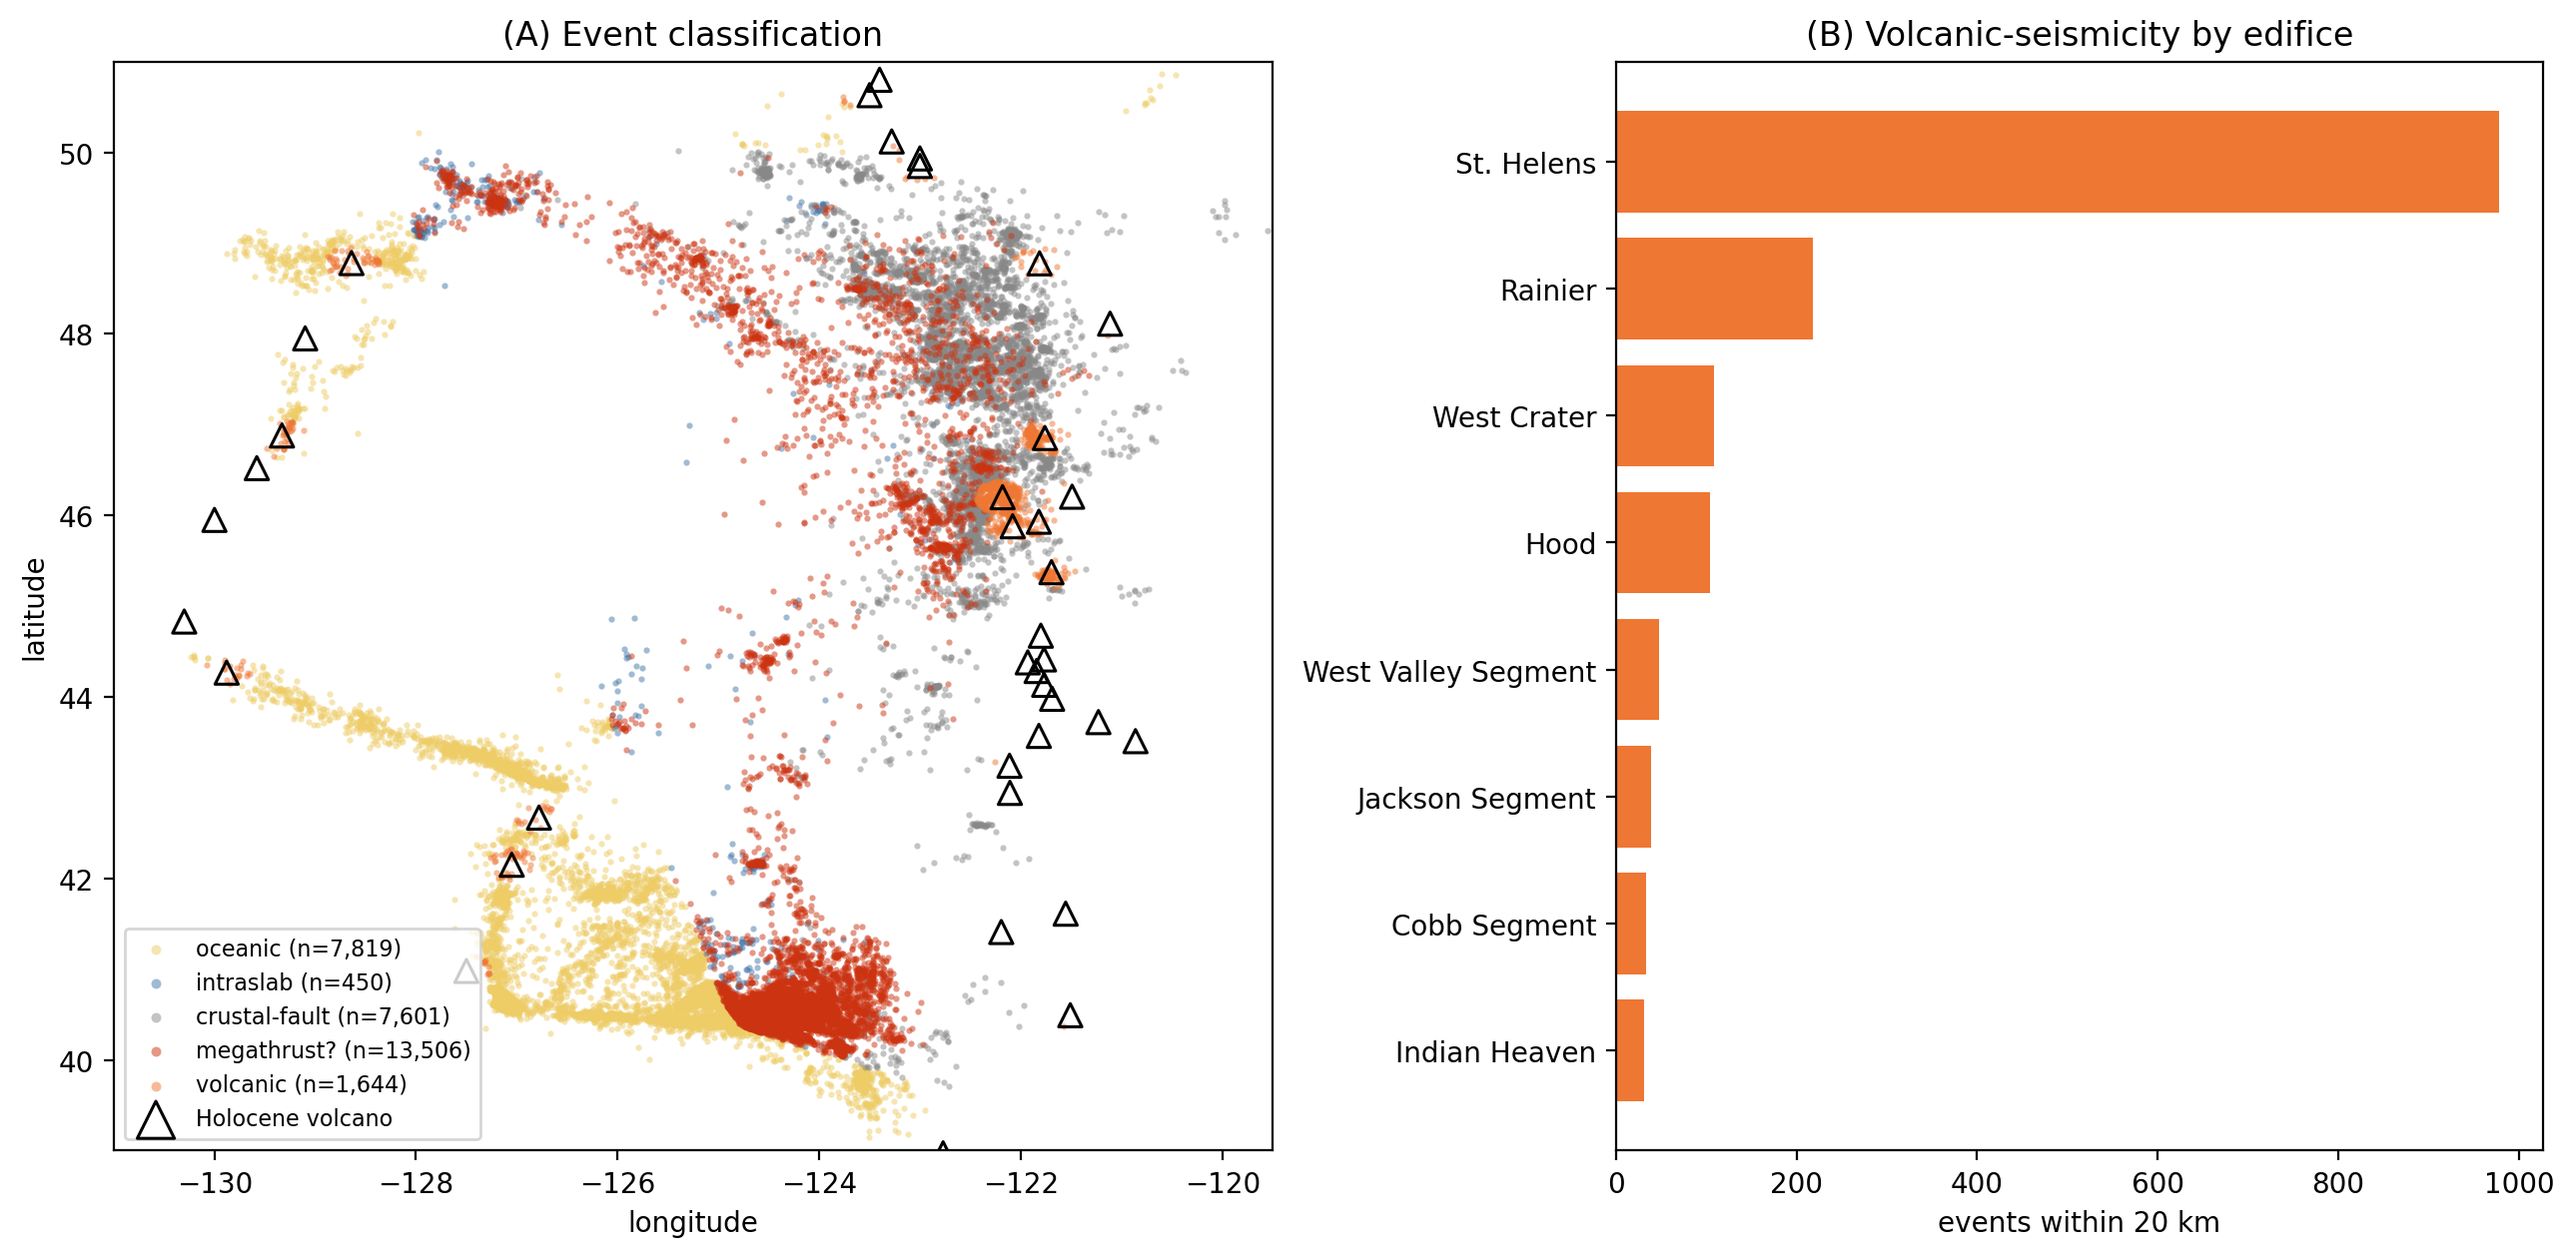
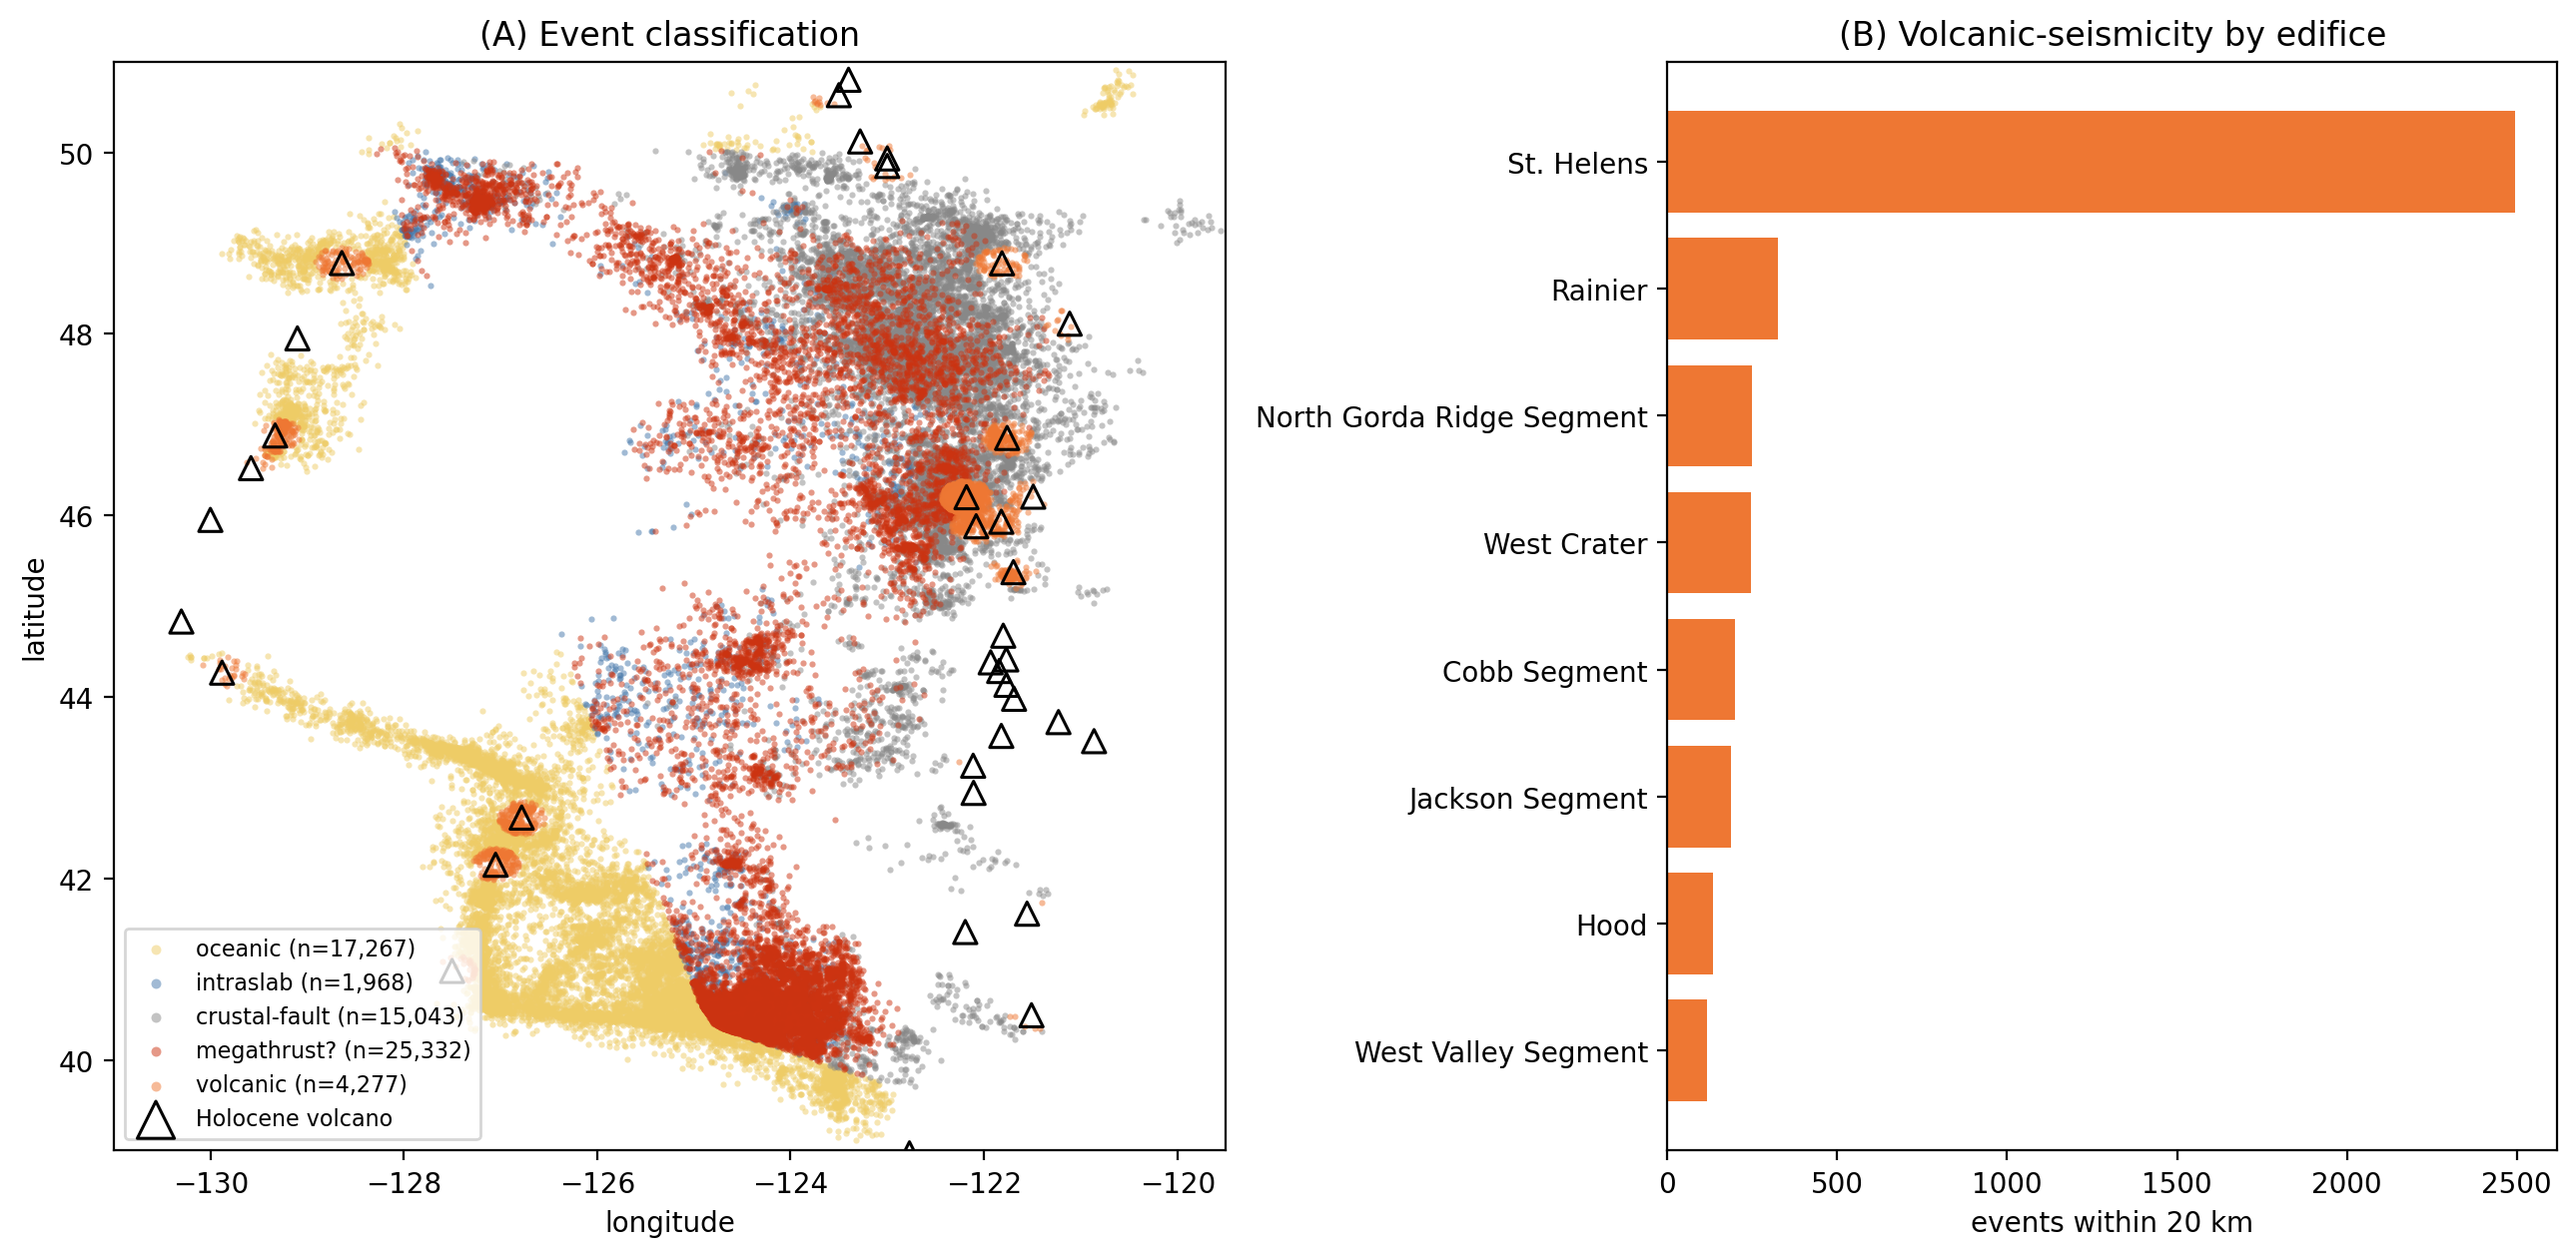
Plot all relocated events (+ qc_pass flag); Route A adds displacement amp for Mw
Data product: release ALL relocated events, not just the QC subset.
- phase10: classify the full relocated catalog (63,887) and add a qc_pass flag (=
  membership in the published QC catalog, 31,020) + carry ML_unc. cascadia_catalog_
  classified.csv now has every relocated event with a flag users can filter on.
- phase5: the catalog map + regional zooms now join the full relocated origin table
  (all 63,798 ML'd events) instead of the QC-only subset. fig4 + zooms regenerated.
- phase14 completeness now runs over all relocated events (offshore Mc drops further:
  Blanco 1.7, Endeavour 1.8 vs ANSS-ml ~3.2).
- Captions/text (fig4, completeness, supplement) updated to "all relocated + qc_pass".

Route A / Mw: route_a_wa_amplitudes.py now measures a second amplitude per pick,
disp_amp_um -- broadband displacement (response removed to DISP, low band --disp-lo/
--disp-hi, default 0.05-2 Hz). Wood-Anderson (wa_amp_mm) saturates for large events, so
this low-frequency displacement is the amplitude to calibrate toward Mw. RUNBOOK updated.

diff --git a/4_relocation/magnitude/route_a_wa_amplitudes.py b/4_relocation/magnitude/route_a_wa_amplitudes.py
@@ -3,9 +3,17 @@
 Route A, step 1: Wood-Anderson amplitudes for each P and S pick.
 
 For every pick this script fetches the waveform (NC/BK -> NCEDC via
-utils/data_client.py), removes the instrument response, simulates a Wood-Anderson
-seismograph, and measures the peak WA displacement in a *distance-scaled* window,
-taken as the maximum over all available components (vertical used as a fallback).
+utils/data_client.py), removes the instrument response, and measures TWO amplitudes
+per pick in a *distance-scaled* window, taken as the max over all components
+(vertical fallback):
+  - wa_amp_mm : peak Wood-Anderson displacement (near 1 Hz) -> local magnitude ML,
+    comparable to other ML catalogs.
+  - disp_amp_um : peak broadband displacement in a low band (--disp-lo/--disp-hi,
+    default 0.05-2 Hz) -> a moment-scale amplitude for Mw. Wood-Anderson deliberately
+    narrowbands and saturates for large events, so the low-frequency displacement is
+    the amplitude to calibrate toward Mw (up to the magnitude where the corner drops
+    below the usable OBS band). A proper Mw still needs a spectral Omega-0 fit; this
+    displacement amplitude is the first step and shares the same response removal.
 It also records a pre-signal signal-to-noise ratio and the response *epoch* the
 pick falls in (so redeployed OBS get an epoch-specific station term downstream).
 
@@ -51,8 +59,8 @@ PAZ_WA = {"poles": [-5.49779 - 5.60886j, -5.49779 + 5.60886j],
           "zeros": [0j], "gain": 1.0, "sensitivity": 2080.0}
 
 OUT_COLS = ["arid", "event_id", "network", "station", "phase", "evla", "evlo", "evdp",
-            "stla", "stlo", "stel_m", "dist_hypo_km", "wa_amp_mm", "snr", "n_comp",
-            "epoch", "reason"]
+            "stla", "stlo", "stel_m", "dist_hypo_km", "wa_amp_mm", "disp_amp_um",
+            "snr", "n_comp", "epoch", "reason"]
 
 
 def haversine_km(la1, lo1, la2, lo2):
@@ -97,6 +105,10 @@ def main(argv=None):
     ap.add_argument("--source", default="pnwstore")
     ap.add_argument("--sample-rate", type=int, default=100)
     ap.add_argument("--highpass", type=float, default=1.0, help="post-WA high-pass (Hz)")
+    ap.add_argument("--disp-lo", type=float, default=0.05,
+                    help="low corner (Hz) for the displacement (Mw) band")
+    ap.add_argument("--disp-hi", type=float, default=2.0,
+                    help="high corner (Hz) for the displacement (Mw) band")
     ap.add_argument("--noise-win", type=float, default=10.0, help="pre-signal noise window (s)")
     ap.add_argument("--start-index", type=int, default=0, help="resume / shard start row")
     ap.add_argument("--limit", type=int, default=None, help="process at most N picks (testing)")
@@ -168,9 +180,14 @@ def main(argv=None):
             st.merge(method=1, fill_value="interpolate")
             st.resample(args.sample_rate)
             st.detrend("demean"); st.taper(0.05)
+            st_disp = st.copy()                       # broadband displacement for Mw
             st.remove_response(inventory=inv, output="VEL", water_level=60)
             st.simulate(paz_simulate=PAZ_WA)          # ground velocity -> WA displacement (m)
             st.filter("highpass", freq=args.highpass)
+            # displacement path: response -> DISP, low band for the moment-scale amplitude
+            st_disp.remove_response(inventory=inv, output="DISP", water_level=60)
+            st_disp.filter("bandpass", freqmin=args.disp_lo, freqmax=args.disp_hi,
+                           zerophase=True)
         except Exception as e:
             rec["reason"] = f"resp:{str(e)[:80]}"; w.writerow(rec); continue
 
@@ -188,7 +205,14 @@ def main(argv=None):
         if ncomp == 0:
             rec["reason"] = "no_window_data"; w.writerow(rec); continue
 
-        rec.update(wa_amp_mm=amp * 1000.0,                     # m -> mm
+        disp = 0.0                                    # peak displacement (m) in the low band
+        for tr in st_disp:
+            dd = tr.slice(sig_lo, sig_hi).data
+            if len(dd):
+                disp = max(disp, float(np.max(np.abs(dd))))
+
+        rec.update(wa_amp_mm=amp * 1000.0,                     # m -> mm  (for ML)
+                   disp_amp_um=disp * 1e6,                     # m -> um  (for Mw)
                    snr=(amp / noise) if noise > 0 else np.nan,
                    n_comp=ncomp, reason="ok")
         w.writerow(rec); fh.flush()

diff --git a/4_relocation/magnitude/phase10_event_classification.py b/4_relocation/magnitude/phase10_event_classification.py
@@ -27,7 +27,11 @@ import pandas as pd
 from scipy.interpolate import griddata
 
 D = "../../data/datasets_all_regions"
-QC = f"{D}/origin_2010_2015_reloc_cog_ver3_cc_p_4_s_4_rms_2_5.csv"
+# ALL relocated events (not just the QC subset); qc_pass flags membership in the
+# published quality-controlled catalog (>=4 P & >=4 S picks, RMS < 2.5 s, plus the
+# shallow-event manual review) so users can filter to their taste.
+QC = f"{D}/origin_2010_2015_reloc_cog_ver3_cc.csv"
+QC_PASS = f"{D}/origin_2010_2015_reloc_cog_ver3_cc_p_4_s_4_rms_2_5.csv"
 REL = f"{D}/Cascadia_relocated_catalog_ver_3.csv"
 ML = "../../data/magnitude/cascadia_catalog_ML_kpos.csv"
 VOLC = f"{D}/GVP_Volcano_List_Holocene_202504292212.csv"
@@ -55,10 +59,14 @@ def main():
 
     qc = pd.read_csv(os.path.expanduser(QC))
     qc["t"] = pd.to_datetime(qc["time"], unit="s")
+    # qc_pass = membership in the published QC catalog (consistent with the paper)
+    qc_orids = set(pd.read_csv(os.path.expanduser(QC_PASS))["orid"])
+    qc["qc_pass"] = qc.orid.isin(qc_orids)
 
     # ML by orid==event_id
     ml = pd.read_csv(os.path.expanduser(ML))
-    qc = qc.merge(ml[["event_id", "ML"]], left_on="orid", right_on="event_id", how="left")
+    mlcols = ["event_id", "ML"] + [c for c in ("ML_unc",) if c in ml.columns]
+    qc = qc.merge(ml[mlcols], left_on="orid", right_on="event_id", how="left")
 
     # horizontal location uncertainty from the relocated catalog (join by origin time)
     rel = pd.read_csv(os.path.expanduser(REL))
@@ -103,10 +111,13 @@ def main():
     cls[qc.vol_dist_km < args.vol_radius] = "volcanic"
     qc["event_class"] = cls
 
-    out = qc[["orid", "t", "lat", "lon", "depth", "ML", "h_unc_km", "nass",
-              "gap", "rms", "z_slab", "z_unc", "dz", "vol_dist_km",
-              "nearest_volcano", "event_class"]]
+    out_cols = ["orid", "t", "lat", "lon", "depth", "ML", "ML_unc", "h_unc_km",
+                "nass", "p_picks", "s_picks", "gap", "rms", "qc_pass", "z_slab",
+                "z_unc", "dz", "vol_dist_km", "nearest_volcano", "event_class"]
+    out = qc[[c for c in out_cols if c in qc.columns]]
     out.to_csv(os.path.expanduser(OUT_CSV), index=False)
+    print(f"qc_pass: {int(qc.qc_pass.sum()):,} of {len(qc):,} "
+          f"({100*qc.qc_pass.mean():.0f}%) pass QC")
     print(f"wrote {OUT_CSV}")
     print("class counts:\n" + qc.event_class.value_counts().to_string())
     print(f"\nmedian horizontal uncertainty: {qc.h_unc_km.median():.1f} km "

diff --git a/paper/supplementary_section.tex b/paper/supplementary_section.tex
@@ -326,10 +326,12 @@ and the fluid-control interpretation of \citet{Delph18}.
 
 Figure~\ref{fig:supp_fmd} compares the regional frequency-magnitude distributions of the
 ensemble catalog (local magnitude $M_L$) with ANSS/ComCat. Offshore, the ocean-bottom
-network lowers the magnitude of completeness by roughly one to three units relative to
-the land-based ANSS: $M_c\approx1.6$--$1.7$ vs $2.1$ at the Mendocino and Gorda
-segments, $2.3$ vs $4.2$ at the Blanco transform, and $2.2$ vs $5.0$ at the Endeavour
-segment, with Gutenberg--Richter $b\sim1.0$--$1.6$ (max-curvature $M_c$, Aki--Utsu $b$).
+network lowers the magnitude of completeness by roughly one to two units relative to
+the land-based ANSS (both compared as local magnitudes, ANSS restricted to ml-typed
+events; over all relocated events): $M_c\approx1.3$--$1.6$ at the Mendocino and Gorda
+segments, $1.7$ at the Blanco transform, and $1.8$ at the Endeavour segment, versus
+$M_c\approx3.2$ for the few ml-typed ANSS events offshore, with Gutenberg--Richter
+$b\sim0.9$--$1.4$ (max-curvature $M_c$, Aki--Utsu $b$).
 Onshore (Puget Sound) the two catalogs are comparable ($M_c\approx1.4$). Our $M_L$
 saturates for the largest events, so ANSS retains more of the high-magnitude tail; the
 gain here is at the small-magnitude, offshore end, which is where the network is

diff --git a/4_relocation/magnitude/phase5_pygmt_map.py b/4_relocation/magnitude/phase5_pygmt_map.py
@@ -77,8 +77,9 @@ def main(argv=None):
                                 formatter_class=argparse.RawDescriptionHelpFormatter)
     p.add_argument("--catalog", default="../../data/magnitude/cascadia_catalog_ML_kpos.csv")
     p.add_argument("--qc-catalog",
-                   default="../../data/datasets_all_regions/origin_2010_2015_reloc_cog_ver3_cc_p_4_s_4_rms_2_5.csv",
-                   help="QC origin table joined on orid==event_id to attach nass")
+                   default="../../data/datasets_all_regions/origin_2010_2015_reloc_cog_ver3_cc.csv",
+                   help="origin table joined on orid==event_id to attach nass "
+                        "(default: ALL relocated events, not just the QC subset)")
     p.add_argument("--mode", choices=["confidence", "depth"], default="confidence")
     p.add_argument("--color", default="firebrick", help="single fill (confidence mode)")
     p.add_argument("--region", default="full", choices=list(REGIONS),

diff --git a/4_relocation/magnitude/ROUTE_A_RUNBOOK.md b/4_relocation/magnitude/ROUTE_A_RUNBOOK.md
@@ -46,8 +46,12 @@ python route_a_wa_amplitudes.py --picks <picks.csv> --inventory station_inventor
 python route_a_wa_amplitudes.py --picks <picks.csv> --inventory station_inventory.xml \
     --out raw_wa_amplitudes.csv --source pnwstore
 ```
-Output: one row per pick with `wa_amp_mm`, `snr`, `n_comp`, `epoch`, `dist_hypo_km`,
-event/station coordinates, and a `reason` field.
+Output: one row per pick with **`wa_amp_mm`** (Wood-Anderson -> ML) and
+**`disp_amp_um`** (broadband displacement in the `--disp-lo`/`--disp-hi` band, default
+0.05--2 Hz -> a moment-scale amplitude to calibrate toward Mw), plus `snr`, `n_comp`,
+`epoch`, `dist_hypo_km`, event/station coordinates, and a `reason` field. Feed
+`wa_amp_mm` to the ML inversion; use `disp_amp_um` for the Mw work (a full Mw still
+needs a spectral Omega-0 fit -- this is the shared response-removed first step).
 
 **For the full ELEP detection set (~40M picks)** a single CSV is multi-GB — pass
 `--chunk-rows` to rotate the output into numbered parts (`raw_wa_amplitudes_partNNN.csv`,
